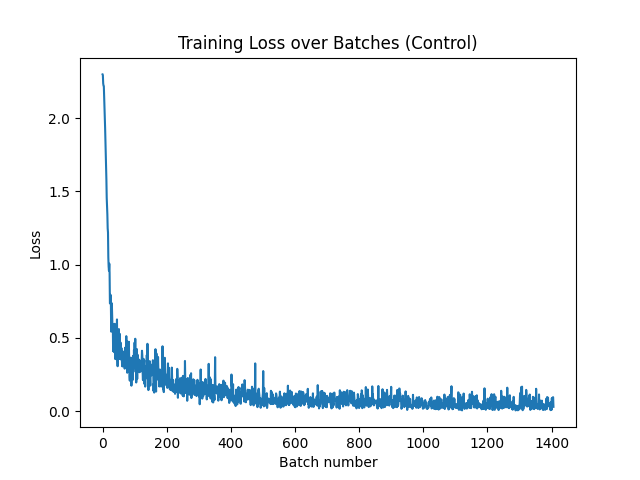
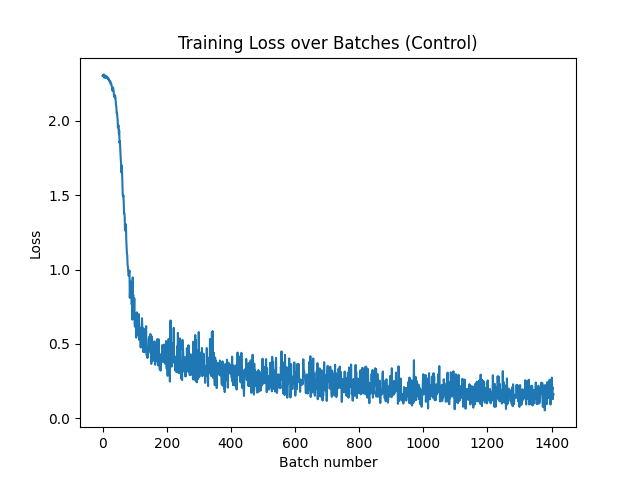
Small model performance!!!

diff --git a/Development/MNIST_demo.py b/Development/MNIST_demo.py
@@ -39,12 +39,12 @@ class SCACNN(nn.Module):
         self.context = contextNN
 
         # SCA-CNN
-        self.scaconv1 = SCAConv(1, 16, kernel_size=3, padding=1, stride=2, b=self.b, c_len=self.c_len, condition=True)
-        self.scaconv2 = SCAConv(16, 32, kernel_size=3, padding=1, stride=2, b=self.b, c_len=self.c_len, condition=True)
+        self.scaconv1 = SCAConv(1, 2, kernel_size=3, padding=1, stride=2, b=self.b, c_len=self.c_len, condition=True)
+        self.scaconv2 = SCAConv(2, 2, kernel_size=3, padding=1, stride=2, b=self.b, c_len=self.c_len, condition=True)
         self.relu = nn.ReLU()
         self.fc_out = nn.Sequential(
             nn.Flatten(),
-            nn.Linear(32 * 7 * 7, 128),
+            nn.Linear(2 * 7 * 7, 128),
             nn.ReLU(),
             nn.Linear(128, 10))
     
@@ -83,7 +83,7 @@ criterion = nn.CrossEntropyLoss()
 optimizer = optim.Adam(model.parameters(), lr=0.001)
 
 # Context encoder pretraining (optional)
-n_epochs = 0
+n_epochs = 1
 context_losses = [] if n_epochs > 0 else ["Not pretrained"]
 print('Pre-training the global context encoder...')
 for epoch in range(n_epochs):

diff --git a/Development/MNIST_control.py b/Development/MNIST_control.py
@@ -8,12 +8,12 @@ class SimpleCNN(nn.Module):
     def __init__(self):
         super(SimpleCNN, self).__init__()
         # Simple CNN control
-        self.scaconv1 = nn.Conv2d(1, 25, kernel_size=3, padding=1, stride=2)
-        self.scaconv2 = nn.Conv2d(25, 50, kernel_size=3, padding=1, stride=2)
+        self.scaconv1 = nn.Conv2d(1, 2, kernel_size=3, padding=1, stride=2)
+        self.scaconv2 = nn.Conv2d(2, 4, kernel_size=3, padding=1, stride=2)
         self.relu = nn.ReLU()
         self.fc_out = nn.Sequential(
             nn.Flatten(),
-            nn.Linear(50 * 7 * 7, 128),
+            nn.Linear(4 * 7 * 7, 128),
             nn.ReLU(),
             nn.Linear(128, 10))
     
